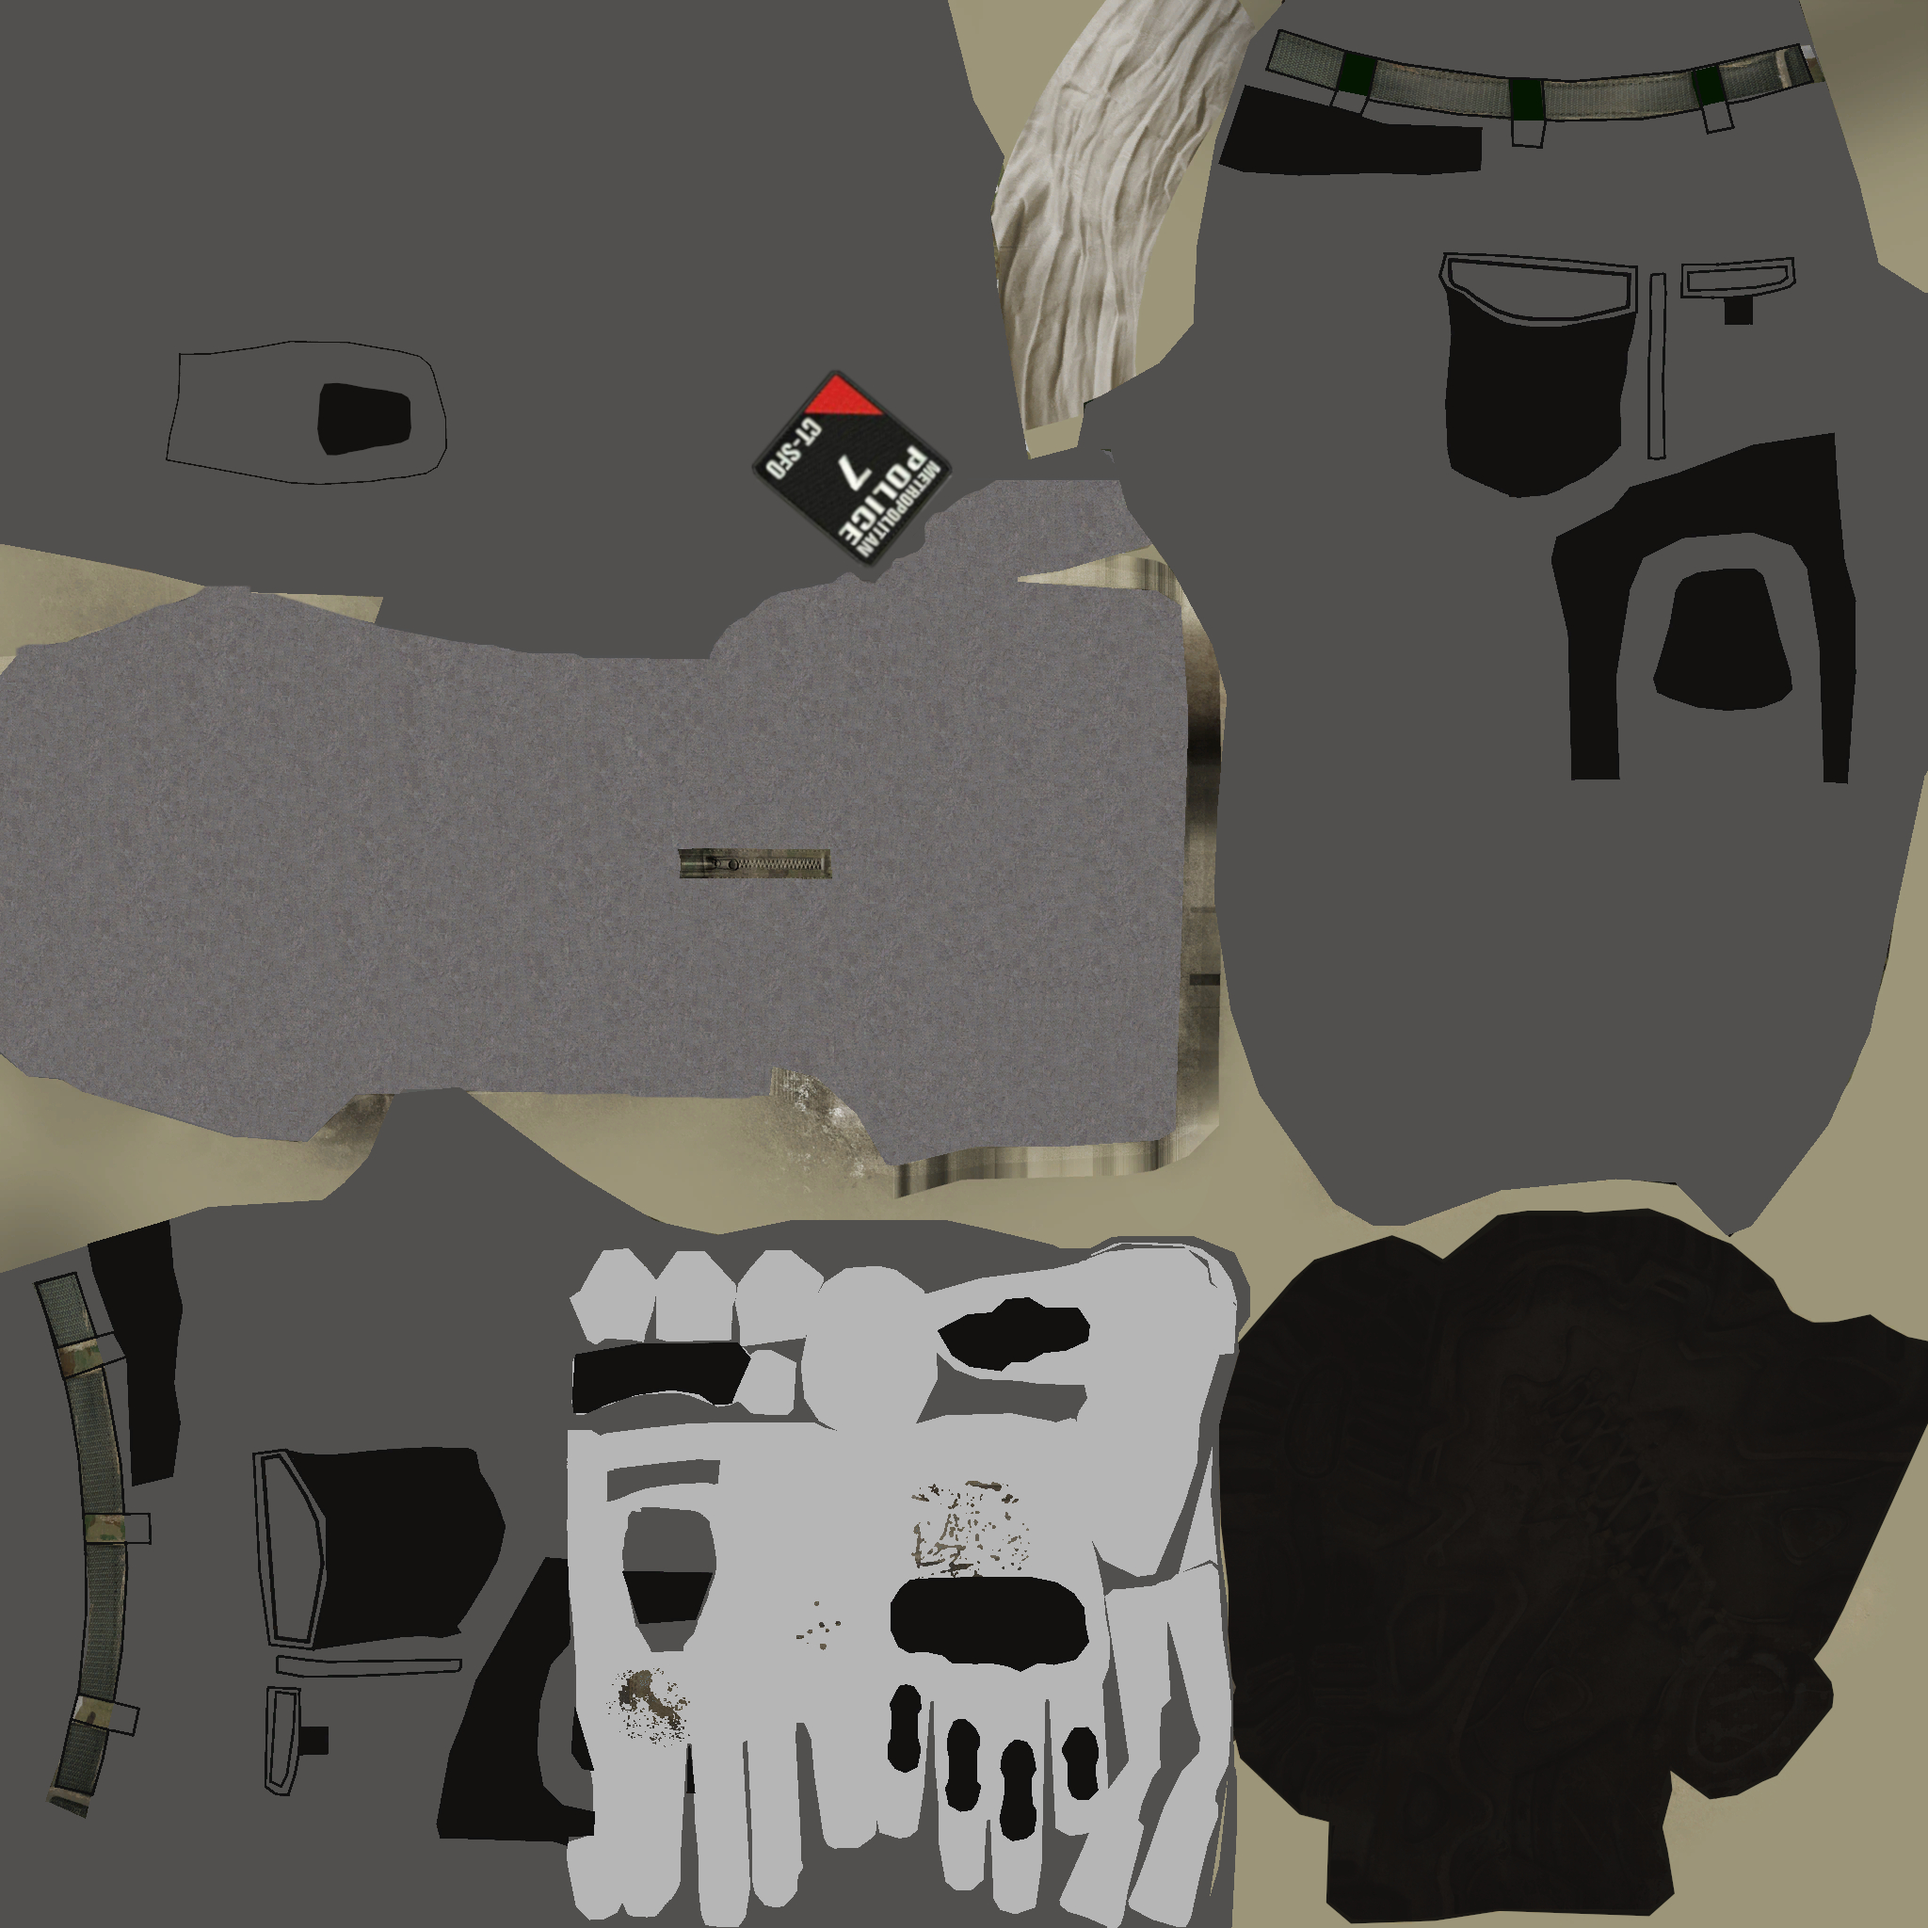
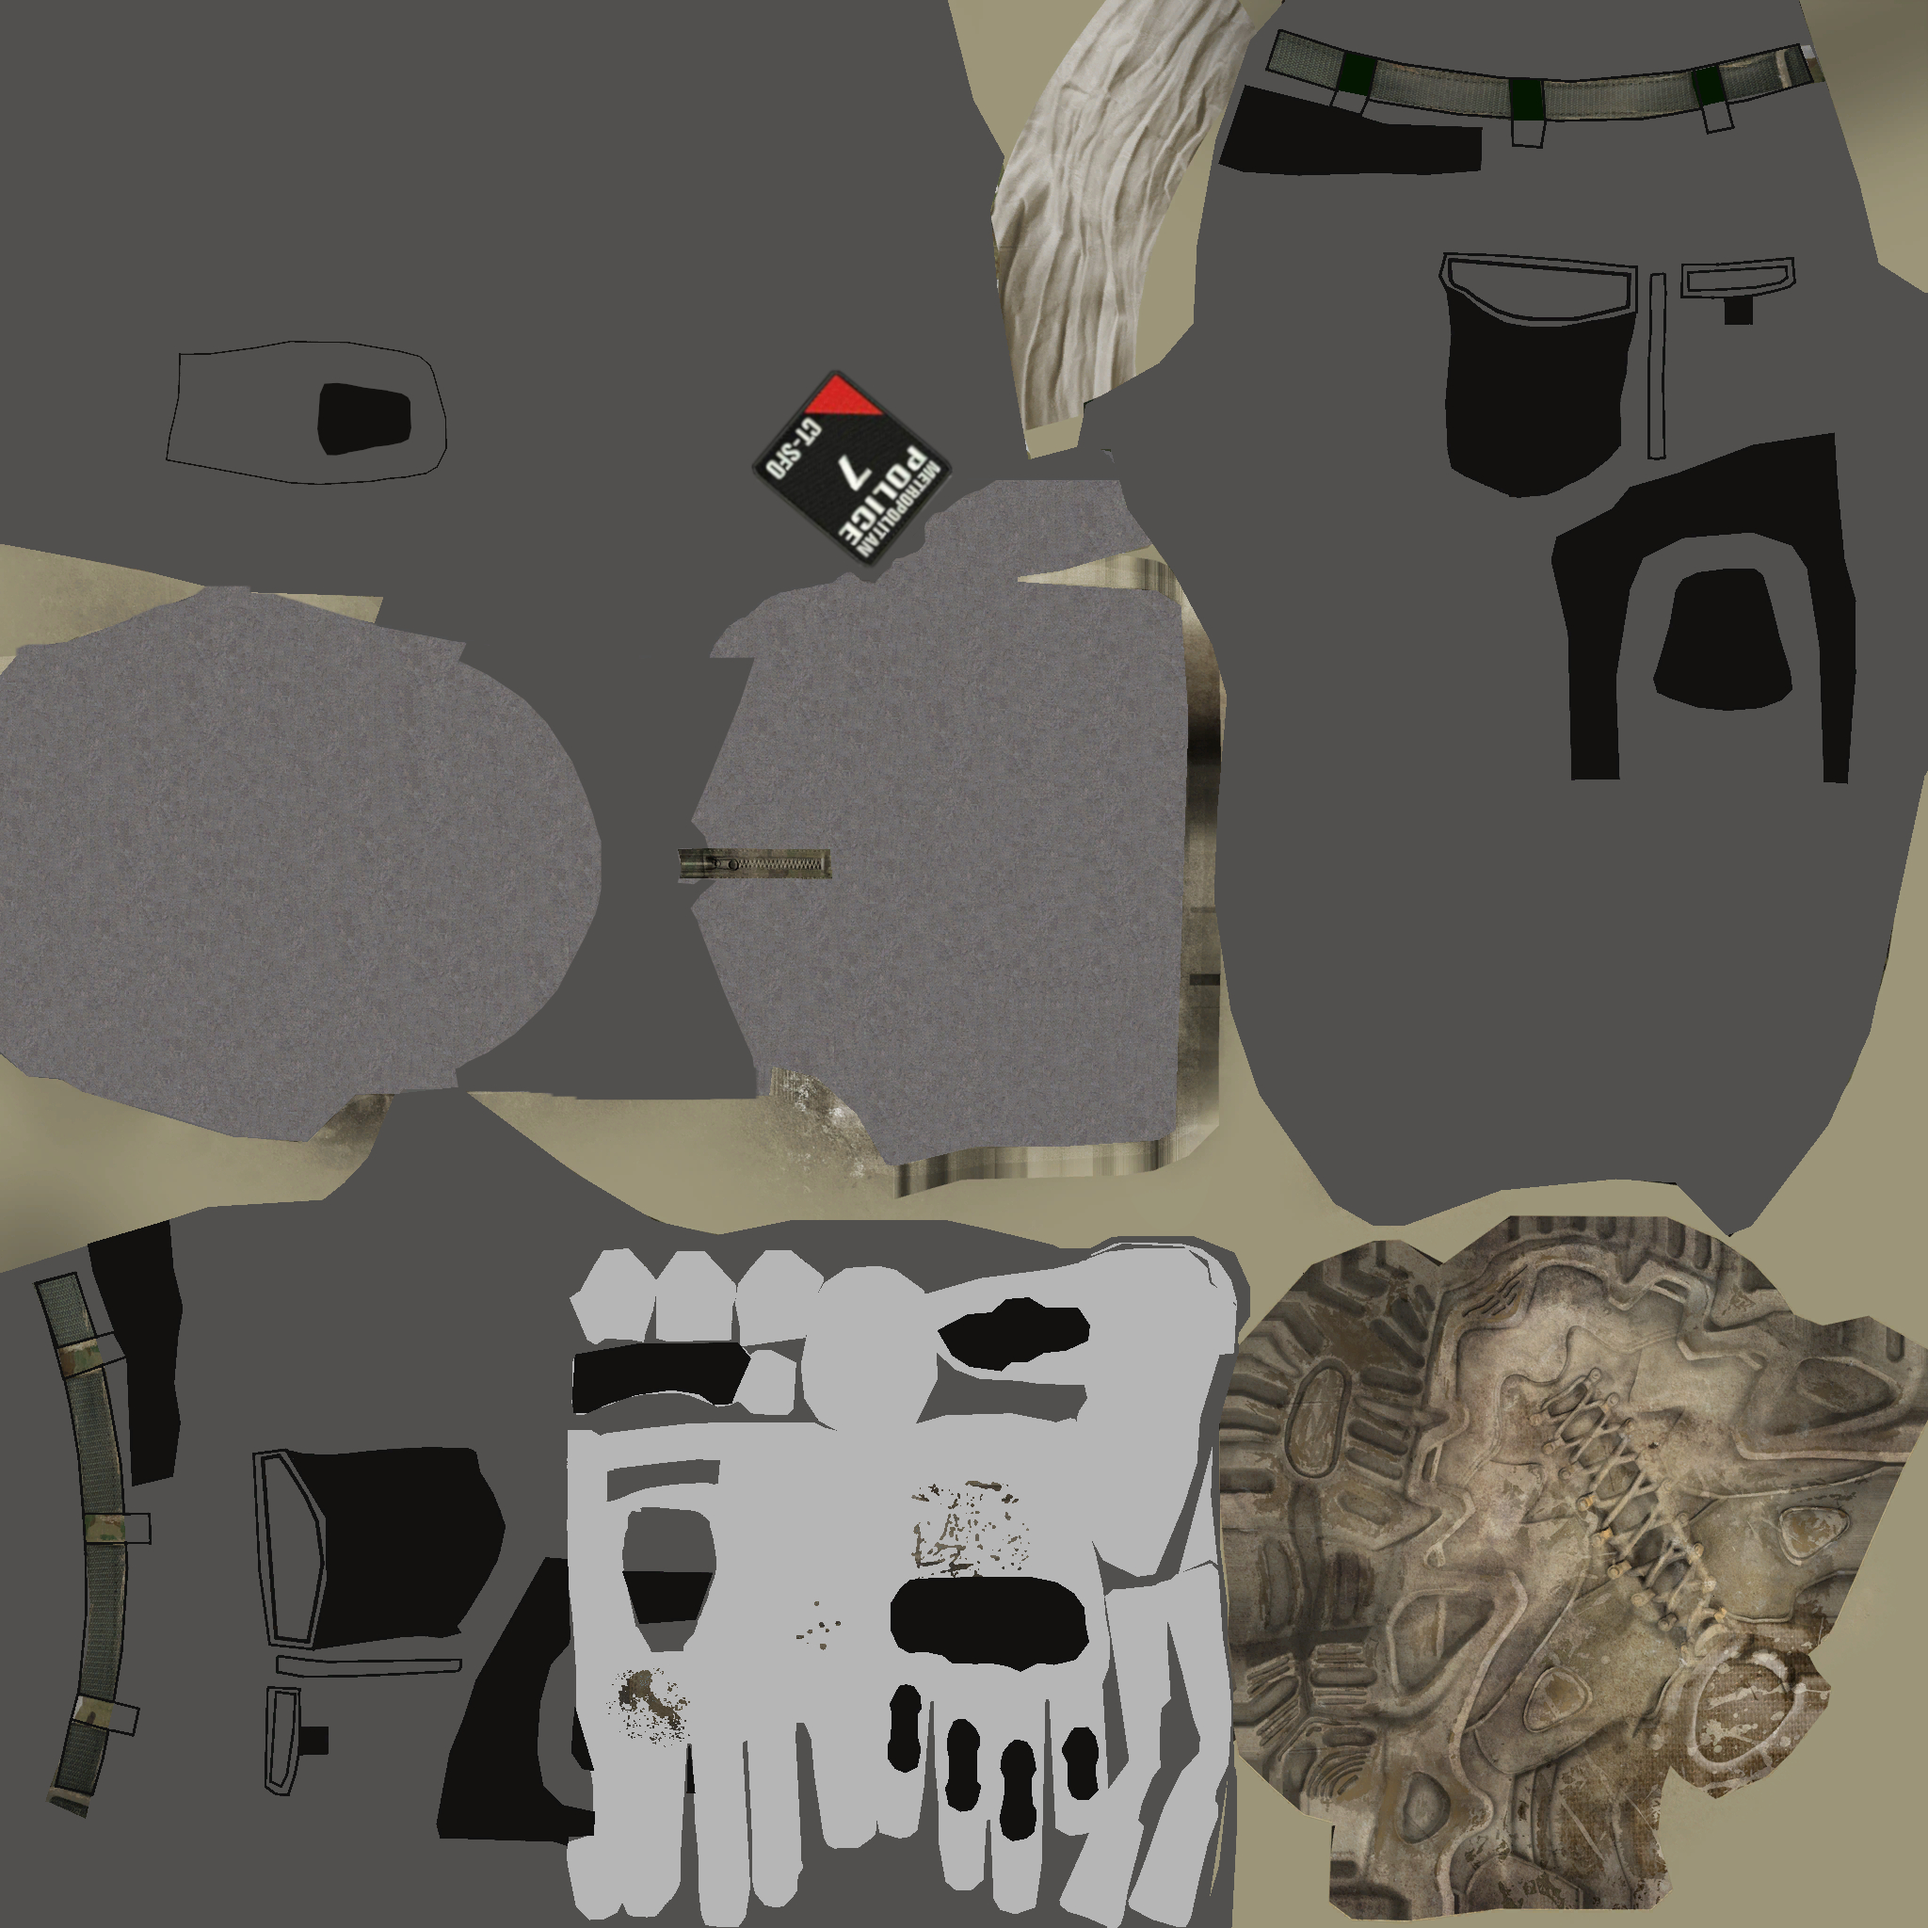
new HEMS stuff
updated ctsfo uniform
updated mags/attachments

Changed region(s): [[0.625, 0.625, 1.0, 1.0], [0.2188, 0.3125, 0.4062, 0.5938]]

diff --git a/MS_PR/config.cpp b/MS_PR/config.cpp
@@ -10,7 +10,6 @@ class CfgPatches
 			"PR_ARVOfficer",
 			"PR_Ambulance",
 			"PR_AmbulanceHART",
-			"PR_CTSFOBeret",
 			"PR_CTSFOHK",
 			"PR_CTSFOMCX",
 			"PR_CTSFOSRO",
@@ -51,6 +50,7 @@ class CfgPatches
 			"PR_ProwlerArmed",
 			"PR_RapidSUV",
 			"PR_HatchbackRapid",
+			"PR_HEMSTaru",
 			"PR_ProwlerRapid"
 		};
 		weapons[] = 
@@ -215,17 +215,21 @@ class CfgVehicles
 		uniformClass = "PR_CTSFOUniform"; //the uniform item
 		hiddenSelections[] = {"Camo"};
 		hiddenSelectionsTextures[] = {"\MS_PR\Uniforms\Data\clothing1_ctsfo_co.jpg"};
-		weapons[] = {MS_MCXRattlerBlack, ms_tazer_yellow};				// Which weapons the character has.
-		respawnWeapons[] = {MS_MCXRattlerBlack, ms_tazer_yellow};		// Which weapons the character respawns with.
+		weapons[] = {MS_MCXBlack, ms_tazer_yellow};				// Which weapons the character has.
+		respawnWeapons[] = {MS_MCXBlack, ms_tazer_yellow};		// Which weapons the character respawns with.
 		Items[] = {FirstAidKit};				// Which items the character has.
 		RespawnItems[] = {FirstAidKit};			// Which items the character respawns with.
-		magazines[] = {Chemlight_green, Chemlight_green};				// What ammunition the character has.
-		respawnMagazines[] = {Chemlight_green, Chemlight_green};	
-		linkedItems[] = {MS_FACP_CTSFO, MS_CTSFOCore, ItemMap, ItemCompass, ItemWatch, ItemRadio, NVGoggles};
-		respawnLinkedItems[] = {MS_FACP_CTSFO, MS_CTSFOCore, ItemMap, ItemCompass, ItemWatch, ItemRadio, NVGoggles};
+		magazines[] = {hlc_30rnd_556x45_EPR_G36, hlc_30rnd_556x45_EPR_G36, hlc_30rnd_556x45_EPR_G36, Chemlight_green, Chemlight_green};				// What ammunition the character has.
+		respawnMagazines[] = {hlc_30rnd_556x45_EPR_G36, hlc_30rnd_556x45_EPR_G36, hlc_30rnd_556x45_EPR_G36, Chemlight_green, Chemlight_green};	
+		linkedItems[] = {MS_JPC_Teamleader, MS_Opscore_CTSFO, ItemMap, ItemCompass, ItemWatch, ItemRadio, NVGoggles_OPFOR};
+		respawnLinkedItems[] = {MS_JPC_Teamleader, MS_Opscore_CTSFO, ItemMap, ItemCompass, ItemWatch, ItemRadio, NVGoggles_OPFOR};
 	};
 	class PR_CTSFOHK : B_Soldier_base_F
 	{
+		class EventHandlers : EventHandlers
+		{
+			init = "(_this select 0) addPrimaryWeaponItem 'optic_holosight_smg_blk_f', (_this select 0) addPrimaryWeaponItem 'jas_sfpeq_516_top_blk' ";
+		};
 		author = "Mercury Studios - Silence"
 		_generalMacro = "B_Soldier_F"; //unsure what this does
 		scope = 2;
@@ -241,17 +245,21 @@ class CfgVehicles
 		respawnWeapons[] = {hlc_rifle_416D10_st6};		// Which weapons the character respawns with.
 		Items[] = {FirstAidKit};				// Which items the character has.
 		RespawnItems[] = {FirstAidKit};			// Which items the character respawns with.
-		magazines[] = {Chemlight_green, Chemlight_green};				// What ammunition the character has.
-		respawnMagazines[] = {Chemlight_green, Chemlight_green};	
-		linkedItems[] = {MS_CTSFOPlateCarrier, MS_CTSFOCore, ItemMap, ItemCompass, ItemWatch, ItemRadio, NVGoggles};
-		respawnLinkedItems[] = {MS_CTSFOPlateCarrier, MS_CTSFOCore, ItemMap, ItemCompass, ItemWatch, ItemRadio, NVGoggles};
+		magazines[] = {hlc_30rnd_556x45_SOST_L5, hlc_30rnd_556x45_SOST_L5, hlc_30rnd_556x45_SOST_L5, Chemlight_green, Chemlight_green};				// What ammunition the character has.
+		respawnMagazines[] = {hlc_30rnd_556x45_SOST_L5, hlc_30rnd_556x45_SOST_L5, hlc_30rnd_556x45_SOST_L5, Chemlight_green, Chemlight_green};	
+		linkedItems[] = {MS_MMACCTSFO_Light, MS_Airframe_CTSFO, ItemMap, ItemCompass, ItemWatch, ItemRadio, NVGoggles_OPFOR};
+		respawnLinkedItems[] = {MS_MMACCTSFO_Light, MS_Airframe_CTSFO, ItemMap, ItemCompass, ItemWatch, ItemRadio, NVGoggles_OPFOR};
 	};
 	class PR_CTSFO516 : B_Soldier_base_F
 	{
+		class EventHandlers : EventHandlers
+		{
+			init = "(_this select 0) addPrimaryWeaponItem 'optic_holosight_blk_f', (_this select 0) addPrimaryWeaponItem 'jas_sfpeq_516_top_blk', (_this select 0) addPrimaryWeaponItem 'hlc_muzzle_sf3p_556', (_this select 0) addPrimaryWeaponItem 'jas_sig516_rail_cover_right' ";
+		};
 		author = "Mercury Studios - Silence"
 		_generalMacro = "B_Soldier_F"; //unsure what this does
-		scope = 1;
-		scopeCurator = 1;
+		scope = 2;
+		scopeCurator = 2;
 		displayName = "[PR] CTSFO (SIG 516, 5.56)";
 		faction = "pr_police";
 		editorSubcategory = "pr_police_sco";
@@ -259,17 +267,21 @@ class CfgVehicles
 		uniformClass = "PR_CTSFOUniform"; //the uniform item
 		hiddenSelections[] = {"Camo"};
 		hiddenSelectionsTextures[] = {"\MS_PR\Uniforms\Data\clothing1_ctsfo_co.jpg"};
-		weapons[] = {MS_SIG516};				// Which weapons the character has.
-		respawnWeapons[] = {MS_SIG516};		// Which weapons the character respawns with.
+		weapons[] = {JAS_SIG516_14_5_CTR_Blk};				// Which weapons the character has.
+		respawnWeapons[] = {JAS_SIG516_14_5_CTR_Blk};		// Which weapons the character respawns with.
 		Items[] = {FirstAidKit};				// Which items the character has.
 		RespawnItems[] = {FirstAidKit};			// Which items the character respawns with.
-		magazines[] = {Chemlight_green, Chemlight_green};				// What ammunition the character has.
-		respawnMagazines[] = {Chemlight_green, Chemlight_green};	
-		linkedItems[] = {MS_LBT6094_CTSFOAlt, MS_CTSFOCore, ItemMap, ItemCompass, ItemWatch, ItemRadio, NVGoggles};
-		respawnLinkedItems[] = {MS_LBT6094_CTSFOAlt, MS_CTSFOCore, ItemMap, ItemCompass, ItemWatch, ItemRadio, NVGoggles};
+		magazines[] = {hlc_30rnd_556x45_SOST_L5, hlc_30rnd_556x45_SOST_L5, hlc_30rnd_556x45_SOST_L5, Chemlight_green, Chemlight_green};				// What ammunition the character has.
+		respawnMagazines[] = {hlc_30rnd_556x45_SOST_L5, hlc_30rnd_556x45_SOST_L5, hlc_30rnd_556x45_SOST_L5, Chemlight_green, Chemlight_green};	
+		linkedItems[] = {MS_CTSFOPlateCarrier, MS_CTSFOCore, ItemMap, ItemCompass, ItemWatch, ItemRadio, NVGoggles};
+		respawnLinkedItems[] = {MS_CTSFOPlateCarrier, MS_CTSFOCore, ItemMap, ItemCompass, ItemWatch, ItemRadio, NVGoggles};
 	};
 	class PR_CTSFOSRO : B_Soldier_base_F
 	{
+		class EventHandlers : EventHandlers
+		{
+			init = "(_this select 0) addPrimaryWeaponItem 'hlc_optic_zf95base' ";
+		};
 		author = "Mercury Studios - Silence"
 		_generalMacro = "B_Soldier_F"; //unsure what this does
 		scope = 2;
@@ -285,13 +297,17 @@ class CfgVehicles
 		respawnWeapons[] = {hlc_rifle_awmagnum_BL};		// Which weapons the character respawns with.
 		Items[] = {FirstAidKit};				// Which items the character has.
 		RespawnItems[] = {FirstAidKit};			// Which items the character respawns with.
-		magazines[] = {Chemlight_green, Chemlight_green};				// What ammunition the character has.
-		respawnMagazines[] = {Chemlight_green, Chemlight_green};	
+		magazines[] = {hlc_5rnd_300WM_FMJ_AWM, hlc_5rnd_300WM_FMJ_AWM, hlc_5rnd_300WM_FMJ_AWM, hlc_5rnd_300WM_FMJ_AWM, hlc_5rnd_300WM_FMJ_AWM, Chemlight_green, Chemlight_green};				// What ammunition the character has.
+		respawnMagazines[] = {hlc_5rnd_300WM_FMJ_AWM, hlc_5rnd_300WM_FMJ_AWM, hlc_5rnd_300WM_FMJ_AWM, hlc_5rnd_300WM_FMJ_AWM, hlc_5rnd_300WM_FMJ_AWM, Chemlight_green, Chemlight_green};	
 		linkedItems[] = {MS_CTSFOPlateCarrier, PR_CTSFOBeret, ItemMap, ItemCompass, ItemWatch, ItemRadio};
 		respawnLinkedItems[] = {MS_CTSFOPlateCarrier, PR_CTSFOBeret, ItemMap, ItemCompass, ItemWatch, ItemRadio};
 	};
 	class PR_ARVOfficer : B_Soldier_base_F
 	{
+		class EventHandlers : EventHandlers
+		{
+			init = "(_this select 0) addPrimaryWeaponItem 'optic_arco_blk_f' ";
+		};
 		author = "Mercury Studios - Silence"
 		_generalMacro = "B_Soldier_F"; //unsure what this does
 		scope = 2;
@@ -306,8 +322,10 @@ class CfgVehicles
 		hiddenSelectionsTextures[] = {"\MS_PR\Uniforms\Data\sco19_uniform_co.jpg"};
 		weapons[] = {hlc_rifle_G36C, ms_tazer_yellow};				// Which weapons the character has.
 		respawnWeapons[] = {hlc_rifle_G36C, ms_tazer_yellow};		// Which weapons the character respawns with.
-		linkedItems[] = {PR_ARVHelmet, MS_LBT6094_SCO, ItemMap, ItemCompass, ItemWatch, ItemRadio, NVGoggles};
-		respawnLinkedItems[] = {PR_ARVHelmet, MS_LBT6094_SCO, ItemMap, ItemCompass, ItemWatch, ItemRadio, NVGoggles};
+		magazines[] = {hlc_30rnd_556x45_EPR_G36, hlc_30rnd_556x45_EPR_G36, hlc_30rnd_556x45_EPR_G36, Chemlight_green, Chemlight_green};				// What ammunition the character has.
+		respawnMagazines[] = {hlc_30rnd_556x45_EPR_G36, hlc_30rnd_556x45_EPR_G36, hlc_30rnd_556x45_EPR_G36, Chemlight_green, Chemlight_green};	
+		linkedItems[] = {MS_Opscore_Black, MS_FACP_SCO, ItemMap, ItemCompass, ItemWatch, ItemRadio, NVGoggles};
+		respawnLinkedItems[] = {MS_Opscore_Black, MS_FACP_SCO, ItemMap, ItemCompass, ItemWatch, ItemRadio, NVGoggles};
 	};
 	class PR_NCAUniformed : B_Soldier_base_F
 	{
@@ -391,6 +409,10 @@ class CfgVehicles
 	};
 	class PR_SCO19Officer : B_Soldier_base_F
 	{
+		class EventHandlers : EventHandlers
+		{
+			init = "(_this select 0) addPrimaryWeaponItem 'optic_holosight_smg_blk_f' ";
+		};
 		author = "Mercury Studios - Silence"
 		_generalMacro = "B_Soldier_F"; //unsure what this does
 		scope = 2;
@@ -404,6 +426,8 @@ class CfgVehicles
 		hiddenSelectionsTextures[] = {"\MS_PR\Uniforms\Data\sco19_uniform2_co.paa"};
 		weapons[] = {MS_MCXBlack, ms_tazer_yellow};				// Which weapons the character has.
 		respawnWeapons[] = {MS_MCXBlack, ms_tazer_yellow};		// Which weapons the character respawns with.
+		magazines[] = {hlc_30rnd_556x45_EPR_G36, hlc_30rnd_556x45_EPR_G36, hlc_30rnd_556x45_EPR_G36, Chemlight_green, Chemlight_green};				// What ammunition the character has.
+		respawnMagazines[] = {hlc_30rnd_556x45_EPR_G36, hlc_30rnd_556x45_EPR_G36, hlc_30rnd_556x45_EPR_G36, Chemlight_green, Chemlight_green};	
 		linkedItems[] = {PR_ARVHelmet, MS_SCOPlateCarrier, ItemMap, ItemCompass, ItemWatch, ItemRadio, NVGoggles};
 		respawnLinkedItems[] = {PR_ARVHelmet, MS_SCOPlateCarrier, ItemMap, ItemCompass, ItemWatch, ItemRadio, NVGoggles};
 	};
@@ -482,24 +506,6 @@ class CfgVehicles
 		respawnWeapons[] = {};		// Which weapons the character respawns with.
 		linkedItems[] = {MS_RPUCore, MS_LBT6094_RPUAlt, MS_TacMask, ItemMap, ItemCompass, ItemWatch, ItemRadio};
 		respawnLinkedItems[] = {MS_RPUCore, MS_LBT6094_RPUAlt, MS_TacMask, ItemMap, ItemCompass, ItemWatch, ItemRadio};
-	};
-	class PR_CTSFOBeret : B_Soldier_base_F
-	{
-		author = "Mercury Studios - Silence"
-		_generalMacro = "B_Soldier_F"; //unsure what this does
-		scope = 2;
-		scopeCurator = 2;
-		displayName = "[PR] CTSFO - Beret";
-		faction = "pr_police";
-		editorSubcategory = "pr_police_sco";
-		nakedUniform = "U_BasicBody"; //class for "naked" body
-		uniformClass = "PR_CTSFOUniform"; //the uniform item
-		hiddenSelections[] = {"Camo"};
-		hiddenSelectionsTextures[] = {"\MS_PR\Uniforms\Data\clothing1_ctsfo_co.paa"};
-		weapons[] = {ms_tazer_yellow};				// Which weapons the character has.
-		respawnWeapons[] = {ms_tazer_yellow};		// Which weapons the character respawns with.
-		linkedItems[] = {ItemMap, ItemCompass, ItemWatch, ItemRadio};
-		respawnLinkedItems[] = {ItemMap, ItemCompass, ItemWatch, ItemRadio};
 	};
 	class PR_HEMSMedicUniform : B_Soldier_base_F
 	{
@@ -811,6 +817,26 @@ class CfgVehicles
 		hiddenSelections[] = {"Camo_1","Camo_2","Camo_3","Camo_4"};
 		hiddenSelectionsTextures[] = {"","","",""};
 		typicalCargo[] = {"PR_NPASPilot"};
+		availableForSupportTypes[] = {"Drop", "Transport"};
+	};
+	class O_Heli_Transport_04_medevac_F;
+	class PR_HEMSTaru: O_Heli_Transport_04_medevac_F
+	{
+		class EventHandlers: EventHandlers
+		{
+			init = "if (local (_this select 0)) then {(_this select 0) setVariable [""BIS_enableRandomization"",false];(_this select 0) setObjectTextureGlobal [1,""MS_PR\Vehicles\Data\hems_taru_main.jpg""];(_this select 0) setObjectTextureGlobal [0,""MS_PR\Vehicles\Data\hems_taru_secondary.jpg""];(_this select 0) setObjectTextureGlobal [3,""MS_PR\Vehicles\Data\hems_taru_pod.jpg""];(_this select 0) setObjectTextureGlobal [2,""MS_PR\Vehicles\Data\hems_taru_podsecondary.jpg""];};";
+		};
+		author = "Mercury Studios - Silence"
+		scope = 2;
+		_generalMacro = "O_Heli_Transport_04_covered_F";
+		side = 2;
+		faction = "pr_NHS";
+		editorSubcategory = "pr_nhs_HEMS";
+		displayName="HEMS Taru";
+		crew = "PR_HEMSPilotUniform";
+		hiddenSelections[] = {"Camo_1","Camo_2","Camo_3","Camo_4"};
+		hiddenSelectionsTextures[] = {"MS_PR\Vehicles\Data\hems_taru_main.jpg","MS_PR\Vehicles\Data\hems_taru_secondary.jpg","MS_PR\Vehicles\Data\hems_taru_pod.jpg","MS_PR\Vehicles\Data\hems_taru_podsecondary.jpg"};
+		typicalCargo[] = {"PR_HEMSPilotUniform"};
 		availableForSupportTypes[] = {"Drop", "Transport"};
 	};
 	class Hatchback_01_base_F;
